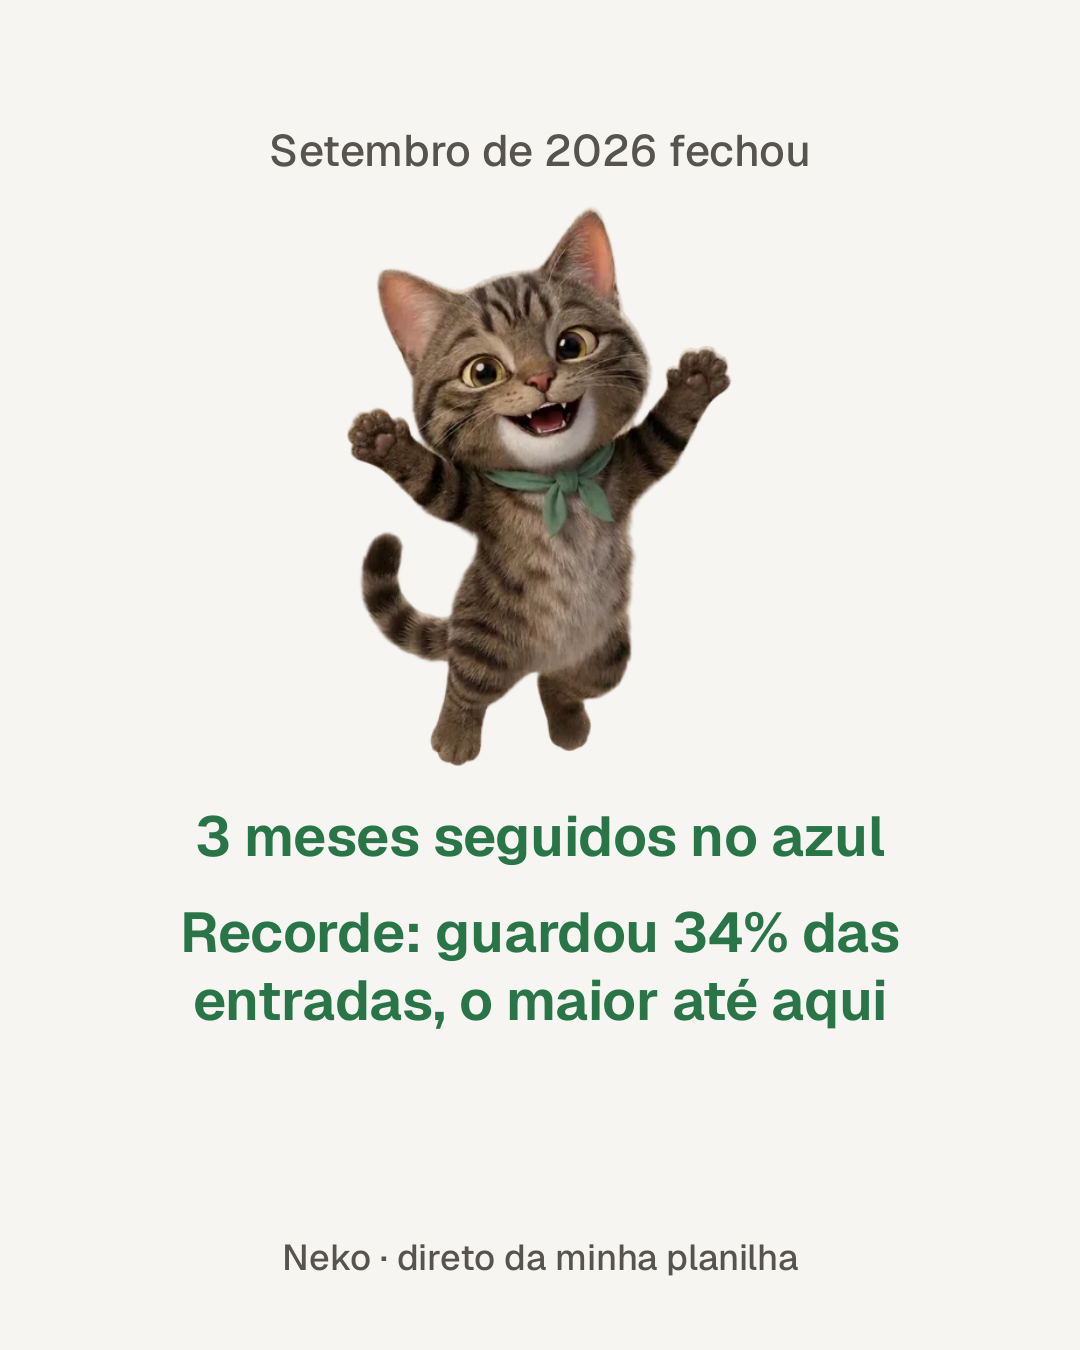
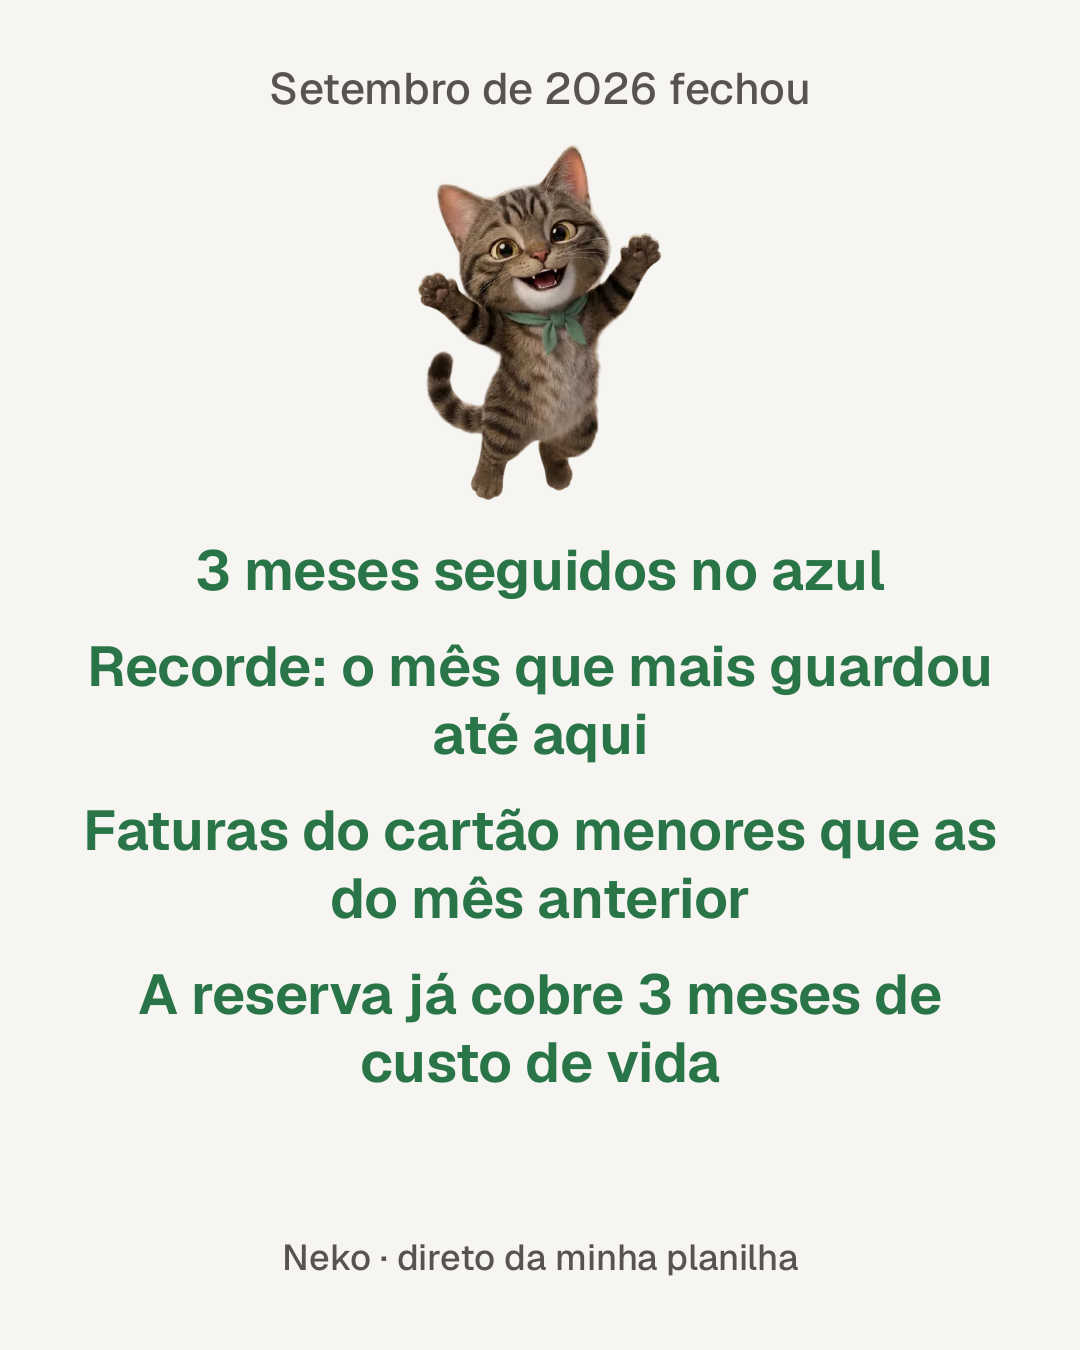
Corrige o compartilhar e a conquista das faturas depois de uma revisão das rodadas da madrugada
- Compartilhar: se o navegador recusa o compartilhamento (o toque "venceu" enquanto a imagem era
  desenhada), a imagem é baixada em vez de nada acontecer; erros de desenho não ficam soltos; um
  toque por vez também na marca da sequência.
- A imagem não leva mais a porcentagem guardada: o recorde vira "o mês que mais guardou até aqui".
- Com quatro conquistas, o gato encolhe para a última não encostar no rodapé (site e Android).
- Android: a imagem é desenhada fora da linha principal e o bitmap é liberado depois.
- Leitor de tela: cada botão diz o que compartilha, e o anúncio da marca não lê o botão junto.
- "Faturas menores que as do mês anterior" compara com o mês do calendário anterior, não com o
  último mês com lançamentos. PIPELINE_VERSION 39, Android 0.40.0.

Claude-Session: https://claude.ai/code/session_01SwzAqfvDsayEzGoVq3fRTr

Changed region(s): [[0.0611, 0.0311, 0.9167, 0.8089]]

diff --git a/apps/android/app/src/main/kotlin/dev/johnlaff/neko/ui/HojeScreen.kt b/apps/android/app/src/main/kotlin/dev/johnlaff/neko/ui/HojeScreen.kt
@@ -33,6 +33,9 @@ import androidx.compose.runtime.LaunchedEffect
 import androidx.compose.runtime.getValue
 import androidx.compose.runtime.mutableStateOf
 import androidx.compose.runtime.remember
+import androidx.compose.runtime.rememberCoroutineScope
+import androidx.compose.ui.semantics.contentDescription
+import kotlinx.coroutines.launch
 import androidx.compose.runtime.setValue
 import androidx.compose.ui.Alignment
 import androidx.compose.ui.Modifier
@@ -246,13 +249,12 @@ private fun Alert(
 private fun MilestoneCard(title: String, text: String, days: Int) {
     val l = LocalLedger.current
     MilestoneHaptic(days)
-    val context = LocalContext.current
     Alert(
         title,
         text,
         l.pos,
         lead = { CelebratingCat(Modifier.height(56.dp).hop()) },
-        action = { ShareButton { dev.johnlaff.neko.share.WinCard.share(context, title, listOf(text)) } },
+        action = { ShareButton(title, listOf(text), "Compartilhar: $title") },
     )
 }
 
@@ -288,10 +290,11 @@ private const val ShownAlerts = 2
 
 /** A month's wins in words, next to Neko celebrating: the recap on Hoje and a closed Mês. */
 @Composable
-internal fun WinsBox(wins: List<String>, cat: Dp, title: String) {
+internal fun WinsBox(all: List<dev.johnlaff.neko.data.Win>, cat: Dp, title: String) {
+    val wins = all.mapNotNull(Copy::win)
+    val share = all.mapNotNull(Copy::winShare)
     if (wins.isEmpty()) return
     val l = LocalLedger.current
-    val context = LocalContext.current
     Column(
         Modifier.fillMaxWidth()
             .background(l.pos.copy(alpha = 0.10f), RoundedCornerShape(14.dp))
@@ -306,18 +309,31 @@ internal fun WinsBox(wins: List<String>, cat: Dp, title: String) {
         }
         // The picture carries the wins only, never an amount (share/WinCard.kt).
         Box(Modifier.align(Alignment.End).padding(bottom = 6.dp)) {
-            ShareButton { dev.johnlaff.neko.share.WinCard.share(context, "$title fechou", wins) }
+            ShareButton("$title fechou", share, "Compartilhar as conquistas de ${title.lowercase()}")
         }
     }
 }
 
-/** Opens the share sheet with an achievement's picture (share/WinCard.kt). */
+/** Opens the share sheet with an achievement's picture (share/WinCard.kt), one at a time. */
 @Composable
-private fun ShareButton(onClick: () -> Unit) {
+private fun ShareButton(title: String, lines: List<String>, label: String) {
     val l = LocalLedger.current
+    val context = LocalContext.current
+    val scope = rememberCoroutineScope()
+    var busy by remember { mutableStateOf(false) }
     OutlinedButton(
-        onClick = onClick,
-        modifier = Modifier.heightIn(min = 40.dp),
+        onClick = {
+            busy = true
+            scope.launch {
+                try {
+                    dev.johnlaff.neko.share.WinCard.share(context, title, lines)
+                } finally {
+                    busy = false
+                }
+            }
+        },
+        enabled = !busy,
+        modifier = Modifier.heightIn(min = 40.dp).semantics { contentDescription = label },
         colors = ButtonDefaults.outlinedButtonColors(contentColor = l.text),
         border = androidx.compose.foundation.BorderStroke(1.dp, l.muted),
         contentPadding = PaddingValues(horizontal = 14.dp),
@@ -334,7 +350,7 @@ internal fun RecapPanel(r: MonthRecap) {
     val before = Format.monthName(if (r.month == 1) 12 else r.month - 1)
     Panel {
         PanelHead("${Format.capitalize(Format.monthName(r.month))} fechou")
-        WinsBox(r.wins.mapNotNull(Copy::win), 64.dp, "${Format.capitalize(Format.monthName(r.month))} de ${r.year}")
+        WinsBox(r.wins, 64.dp, "${Format.capitalize(Format.monthName(r.month))} de ${r.year}")
         Column(verticalArrangement = Arrangement.spacedBy(6.dp)) {
             LedgerLine(
                 if (r.result < 0) "Faltou" else "Sobrou",

diff --git a/apps/neko/src/web/Wins.tsx b/apps/neko/src/web/Wins.tsx
@@ -1,6 +1,6 @@
 import type { Win } from "@neko/engine";
 import { useState } from "react";
-import { winText } from "../shared/wins.ts";
+import { winShareText, winText } from "../shared/wins.ts";
 import nekoComemorando from "./assets/mascots/neko-comemorando.webp";
 import { capitalize, monthName } from "./format.ts";
 import { Mascot } from "./Mascot.tsx";
@@ -23,29 +23,57 @@ export function Wins({
   cat: number;
   className?: string | undefined;
 }) {
-  const [busy, setBusy] = useState(false);
   if (wins.length === 0) return null;
-  const lines = wins.map(winText);
+  const title = `${capitalize(monthName(month))} de ${year}`;
+  return (
+    <div className={className ? `recap-wins ${className}` : "recap-wins"}>
+      <Mascot pose="celebrating" height={cat} className="milestone-cat" />
+      <ul aria-label="Conquistas do mês">
+        {wins.map((w) => (
+          <li key={w.kind}>{winText(w)}</li>
+        ))}
+      </ul>
+      <ShareButton
+        title={`${title} fechou`}
+        lines={wins.map(winShareText)}
+        label={`Compartilhar as conquistas de ${title.toLowerCase()}`}
+      />
+    </div>
+  );
+}
+
+/** Shares an achievement's picture; one share at a time, and a label that names what it shares. */
+export function ShareButton({
+  title,
+  lines,
+  label,
+}: {
+  title: string;
+  lines: readonly string[];
+  label: string;
+}) {
+  const [busy, setBusy] = useState(false);
   const share = async () => {
     setBusy(true);
     try {
-      await shareCard(`${capitalize(monthName(month))} de ${year} fechou`, lines);
+      await shareCard(title, lines);
+    } catch (e) {
+      // Drawing failed: nothing to share, and the page keeps working.
+      console.warn("share card", e);
     } finally {
       setBusy(false);
     }
   };
   return (
-    <div className={className ? `recap-wins ${className}` : "recap-wins"}>
-      <Mascot pose="celebrating" height={cat} className="milestone-cat" />
-      <ul aria-label="Conquistas do mês">
-        {lines.map((t, i) => (
-          <li key={wins[i]?.kind}>{t}</li>
-        ))}
-      </ul>
-      <button type="button" className="ghost small win-share" disabled={busy} onClick={share}>
-        Compartilhar
-      </button>
-    </div>
+    <button
+      type="button"
+      className="ghost small win-share"
+      disabled={busy}
+      aria-label={label}
+      onClick={share}
+    >
+      Compartilhar
+    </button>
   );
 }
 
@@ -84,8 +112,8 @@ const drawCard = async (title: string, lines: readonly string[]) => {
   ctx.font = `650 56px ${font}`;
   const rows = lines.flatMap((l, i) => [...(i > 0 ? [""] : []), ...wrap(ctx, l, W - 160)]);
   const rowsH = rows.reduce((h, r) => h + (r ? 68 : 28), 0);
-  const catH = 560;
-  // Title, cat and wins as one block, centred above the footer.
+  // Title, cat and wins as one block above the footer; the cat gives way when the wins are many.
+  const catH = Math.max(280, Math.min(560, H - 140 - 120 - (44 + 40 + 90 + rowsH)));
   let y = Math.max(60, (H - 140 - (44 + 40 + catH + 90 + rowsH)) / 2) + 44;
   ctx.fillStyle = "#57534e";
   ctx.font = `500 44px ${font}`;
@@ -117,10 +145,12 @@ export const shareCard = async (title: string, lines: readonly string[]) => {
   if (navigator.canShare?.({ files: [file] })) {
     try {
       await navigator.share({ files: [file], title });
-    } catch {
-      // Closing the share sheet is not an error.
+      return;
+    } catch (e) {
+      // Closing the share sheet is not an error; anything else (the tap went stale while the
+      // picture was drawn, say) falls back to the download below.
+      if (e instanceof DOMException && e.name === "AbortError") return;
     }
-    return;
   }
   const url = URL.createObjectURL(blob);
   const a = document.createElement("a");

diff --git a/apps/android/app/src/main/kotlin/dev/johnlaff/neko/share/WinCard.kt b/apps/android/app/src/main/kotlin/dev/johnlaff/neko/share/WinCard.kt
@@ -12,6 +12,8 @@ import androidx.core.content.res.ResourcesCompat
 import androidx.core.graphics.createBitmap
 import dev.johnlaff.neko.R
 import java.io.File
+import kotlinx.coroutines.Dispatchers
+import kotlinx.coroutines.withContext
 
 /**
  * A closed month's wins as a picture to share, as on the site (web/Wins.tsx): 1080×1350, the
@@ -55,7 +57,8 @@ object WinCard {
         val foot = paint(36f, 500, MUTED)
         val rows = wins.flatMapIndexed { i, w -> (if (i > 0) listOf("") else emptyList()) + wrap(w, W - 160f, win::measureText) }
         val rowsH = rows.sumOf { if (it.isEmpty()) 28 else 68 }
-        val catH = 560
+        // The cat gives way when the wins are many, so the last one never meets the footer.
+        val catH = (H - 140 - 120 - (44 + 40 + 90 + rowsH)).coerceIn(280, 560)
         val bmp = createBitmap(W, H)
         val c = Canvas(bmp)
         c.drawColor(BG)
@@ -78,12 +81,22 @@ object WinCard {
         return bmp
     }
 
-    /** Opens the share sheet with the picture, kept in the app's cache (never in the gallery). */
-    fun share(context: Context, title: String, wins: List<String>) {
-        val dir = File(context.cacheDir, "share").apply { mkdirs() }
-        val file = File(dir, "neko-conquista.png")
-        file.outputStream().use { draw(context, title, wins).compress(Bitmap.CompressFormat.PNG, 100, it) }
-        val uri = FileProvider.getUriForFile(context, "${context.packageName}.share", file)
+    /**
+     * Opens the share sheet with the picture, kept in the app's cache (never in the gallery). The
+     * drawing and the PNG run off the main thread.
+     */
+    suspend fun share(context: Context, title: String, wins: List<String>) {
+        val uri = withContext(Dispatchers.Default) {
+            val dir = File(context.cacheDir, "share").apply { mkdirs() }
+            val file = File(dir, "neko-conquista.png")
+            val bmp = draw(context, title, wins)
+            try {
+                file.outputStream().use { bmp.compress(Bitmap.CompressFormat.PNG, 100, it) }
+            } finally {
+                bmp.recycle()
+            }
+            FileProvider.getUriForFile(context, "${context.packageName}.share", file)
+        }
         val send = Intent(Intent.ACTION_SEND).apply {
             type = "image/png"
             putExtra(Intent.EXTRA_STREAM, uri)

diff --git a/apps/neko/src/web/screens/Hoje.tsx b/apps/neko/src/web/screens/Hoje.tsx
@@ -39,7 +39,7 @@ import { Mascot } from "../Mascot.tsx";
 import { Simulator } from "../Pace.tsx";
 import { milestoneText, Streak } from "../Streak.tsx";
 import { WithProjection } from "../useProjection.tsx";
-import { shareCard, Wins } from "../Wins.tsx";
+import { ShareButton, Wins } from "../Wins.tsx";
 
 /** Each warning in a few words, with the figure that shows it and where to look next. */
 const insightView = (i: Insight) => {
@@ -411,19 +411,13 @@ const RecapPanel = ({ r }: { r: MonthRecap }) => {
 const MilestoneCard = ({ title, text }: { title: string; text: string }) => (
   <ul className="alerts" aria-label="Sequência">
     <li>
-      <div className="alert good milestone" role="status">
+      <div className="alert good milestone">
         <Mascot pose="celebrating" height={56} className="milestone-cat" />
-        <span className="alert-text">
+        <span className="alert-text" role="status">
           <strong>{title}</strong>
           <span>{text}</span>
         </span>
-        <button
-          type="button"
-          className="ghost small win-share"
-          onClick={() => shareCard(title, [text])}
-        >
-          Compartilhar
-        </button>
+        <ShareButton title={title} lines={[text]} label={`Compartilhar: ${title}`} />
       </div>
     </li>
   </ul>

diff --git a/packages/engine/test/recap.test.ts b/packages/engine/test/recap.test.ts
@@ -116,6 +116,12 @@ describe("monthRecap", () => {
       // Under 5% is noise, and no card the month before has nothing to compare.
       expect(winsOn(ms([card("Azul", 3000_00)], [card("Azul", 2900_00)]))).toEqual([]);
       expect(winsOn(ms([], [card("Azul", 100_00)]))).toEqual([]);
+      // A month without lines in between: no "month before" to compare with.
+      const gap = [
+        at(2026, 7, { outflows: [card("Azul", 3000_00)], result: cents(-1) } as Partial<MonthView>),
+        at(2026, 9, { outflows: [card("Azul", 1000_00)], result: cents(-1) } as Partial<MonthView>),
+      ];
+      expect(winsOn(gap)).toEqual([]);
     });
 
     it("marks a record share kept, once there are three months before it to beat", () => {

diff --git a/packages/engine/src/recap.ts b/packages/engine/src/recap.ts
@@ -79,7 +79,9 @@ const wins = (months: readonly MonthView[], closed: MonthView): Win[] => {
   else if (share !== null && share >= KEPT_GOAL) out.push({ kind: "kept", share });
   const cardsPaid = (m: MonthView) =>
     add(ZERO, ...m.outflows.filter((o) => o.kind === "card" && !o.others).map((o) => o.amount));
-  const before = upTo.at(-2);
+  // The calendar month before, as the copy says; a month without lines in between compares nothing.
+  const prevKey = closed.month === 1 ? (closed.year - 1) * 100 + 12 : key(closed) - 1;
+  const before = upTo.find((m) => key(m) === prevKey);
   if (before) {
     const was = cardsPaid(before);
     if (was > 0 && cardsPaid(closed) <= was * (1 - CARDS_DOWN_SHARE))

diff --git a/apps/android/app/src/test/kotlin/dev/johnlaff/neko/WinCardTest.kt b/apps/android/app/src/test/kotlin/dev/johnlaff/neko/WinCardTest.kt
@@ -26,7 +26,13 @@ class WinCardTest {
         val bmp = WinCard.draw(
             context,
             "Setembro de 2026 fechou",
-            listOf("3 meses seguidos no azul", "Recorde: guardou 34% das entradas, o maior até aqui"),
+            // Four wins, three of them two lines long: the cat gives way, the footer stays clear.
+            listOf(
+                "3 meses seguidos no azul",
+                "Recorde: o mês que mais guardou até aqui",
+                "Faturas do cartão menores que as do mês anterior",
+                "A reserva já cobre 3 meses de custo de vida",
+            ),
         )
         assertEquals(1080, bmp.width)
         assertEquals(1350, bmp.height)

diff --git a/apps/android/app/src/test/kotlin/dev/johnlaff/neko/TodayViewTest.kt b/apps/android/app/src/test/kotlin/dev/johnlaff/neko/TodayViewTest.kt
@@ -47,6 +47,10 @@ class TodayViewTest {
         assertEquals(null, dev.johnlaff.neko.ui.Copy.win(dev.johnlaff.neko.data.Win("novo")))
         assertEquals("Mês no azul", dev.johnlaff.neko.ui.Copy.win(dev.johnlaff.neko.data.Win("blue", months = 1)))
         assertEquals(
+            "Recorde: o mês que mais guardou até aqui",
+            dev.johnlaff.neko.ui.Copy.winShare(dev.johnlaff.neko.data.Win("record", share = 34)),
+        )
+        assertEquals(
             "Faturas do cartão menores que as do mês anterior",
             dev.johnlaff.neko.ui.Copy.win(dev.johnlaff.neko.data.Win("cards-down")),
         )

diff --git a/apps/android/app/src/main/kotlin/dev/johnlaff/neko/ui/MesScreen.kt b/apps/android/app/src/main/kotlin/dev/johnlaff/neko/ui/MesScreen.kt
@@ -180,7 +180,7 @@ private fun Hero(m: MonthItem, year: List<MonthItem>, history: HistoryView?, onP
             }
         }
         // A closed month keeps the wins its recap celebrated, for whoever looks back at it.
-        WinsBox(m.wins.mapNotNull(Copy::win), 48.dp, "${capitalize(monthName(m.month))} de ${m.year}")
+        WinsBox(m.wins, 48.dp, "${capitalize(monthName(m.month))} de ${m.year}")
         TextAction(if (ledger) "Esconder extrato" else "Ver extrato", { ledger = !ledger })
         Reveal(ledger) {
             Column(verticalArrangement = Arrangement.spacedBy(6.dp)) {

diff --git a/apps/neko/src/shared/wins.ts b/apps/neko/src/shared/wins.ts
@@ -9,3 +9,10 @@ export const winText = (w: Win) => {
   if (w.kind === "record") return `Recorde: guardou ${w.share}% das entradas, o maior até aqui`;
   return `A reserva já cobre ${w.months === 1 ? "1 mês" : `${w.months} meses`} de custo de vida`;
 };
+
+/**
+ * A win as the shared picture says it: the same words, minus the share of the income kept,
+ * since what is shared is the achievement, not the finances (Android: Copy.winShare).
+ */
+export const winShareText = (w: Win) =>
+  w.kind === "record" ? "Recorde: o mês que mais guardou até aqui" : winText(w);

diff --git a/apps/android/app/src/main/kotlin/dev/johnlaff/neko/ui/Copy.kt b/apps/android/app/src/main/kotlin/dev/johnlaff/neko/ui/Copy.kt
@@ -24,6 +24,10 @@ object Copy {
         else -> null
     }
 
+    /** A win as the shared picture says it: no share of the income kept (shared/wins.ts winShareText). */
+    fun winShare(w: Win): String? =
+        if (w.kind == "record") "Recorde: o mês que mais guardou até aqui" else win(w)
+
     /** Null for a kind this version does not know yet: it is skipped, not guessed. */
     fun insight(i: Insight): Line? = when (i.kind) {
         "goes-negative" -> Line(

diff --git a/apps/neko/src/worker/pipeline.ts b/apps/neko/src/worker/pipeline.ts
@@ -29,7 +29,7 @@ import { accessToken, fileVersion, revisionTimes, spreadsheet, tabs } from "./go
 import { loadSettings, settingsHash } from "./settings.ts";
 
 /** Increment when the engine or reader changes output, so cached projections are recomputed. */
-const PIPELINE_VERSION = "38";
+const PIPELINE_VERSION = "39";
 
 /**
  * A cached projection still says when the sheet was last checked: the Drive call above just
